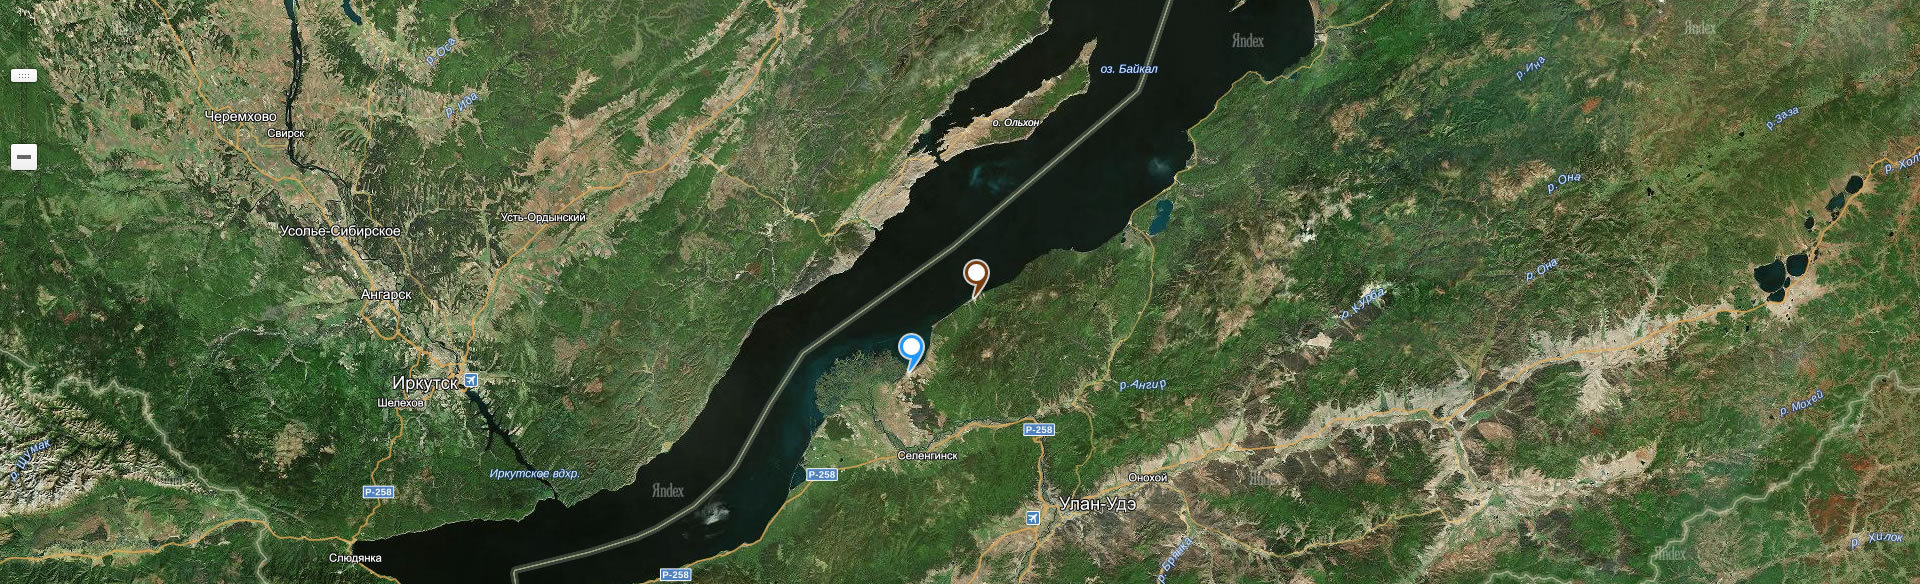
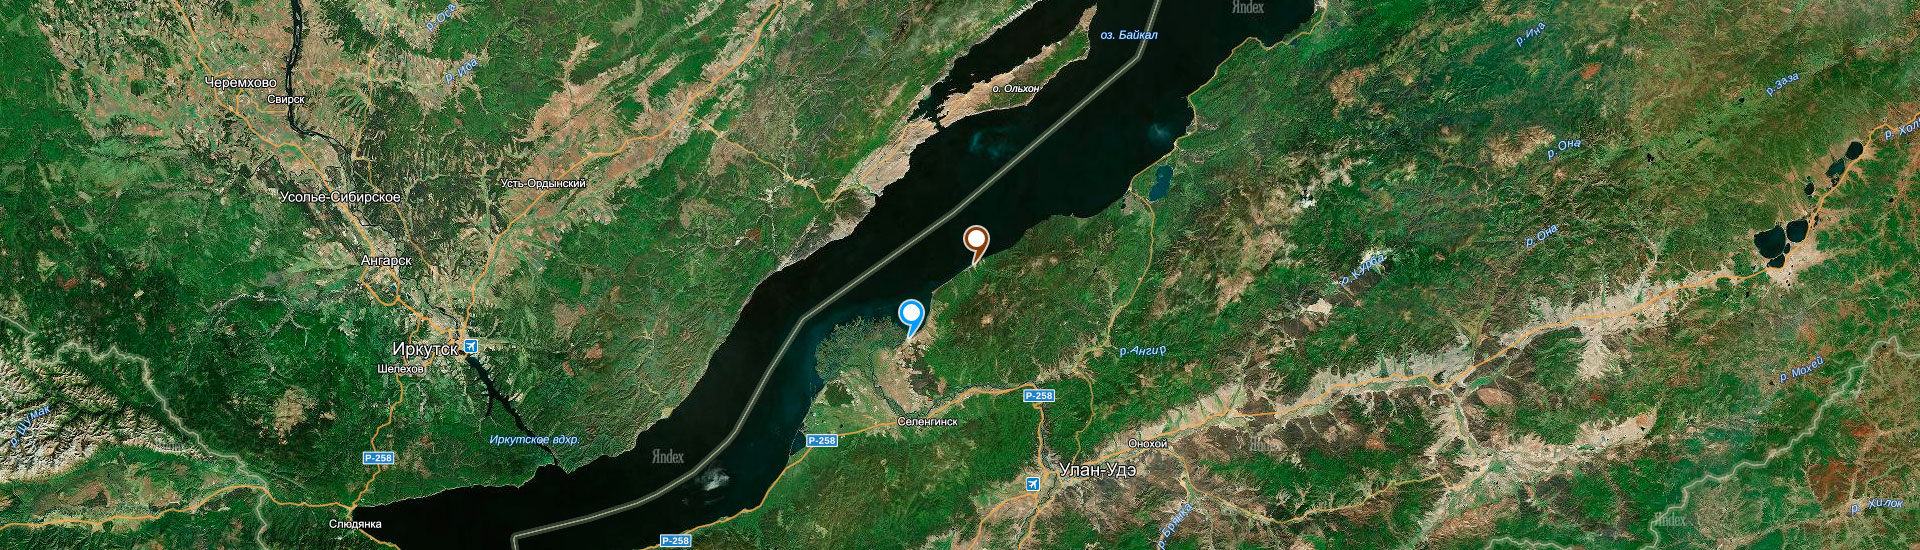
ыва

diff --git a/css/style.css b/css/style.css
@@ -414,18 +414,12 @@ background: -webkit-linear-gradient(top, rgba(255,206,33,1) 0%,rgba(254,177,0,1)
 background: linear-gradient(to bottom, rgba(255,206,33,1) 0%,rgba(254,177,0,1) 100%); /* W3C, IE10+, FF16+, Chrome26+, Opera12+, Safari7+ */
 filter: progid:DXImageTransform.Microsoft.gradient( startColorstr='#ffce21', endColorstr='#feb100',GradientType=0 ); /* IE6-9 */}
 
-#gp-animation {background-color: #53206C;}
-#gp-animation dl dt {display: inline-block; zoom: 1; *display: inline; vertical-align: top; margin-left: 70px;}
-#gp-animation dl dt a {display: block; padding: 12px 0; color: #fff; text-decoration: none;}
-#gp-animation dl dt a:hover {color: #FFBF00;}
-#gp-animation dl dt a.active {color: #FFBF00;}
-
 .b-select {height: 390px; position: static; margin: 0; overflow: hidden;}
 .b-select .wrapper {height: 388px;}
 .b-select img {margin-bottom: 20px;}
 .b-select h1 {font-size: 30px; text-shadow:0px 2px 3px rgba(0,0,0,0.65); width: 680px; margin: 0 auto 20px auto;}
 
-.bg-ametist {background: url(/img/bg-main.jpg) no-repeat center center; height: 610px; padding-top: 190px;}
+.gp-bg-ametist {background: url(/img/bg-main.jpg) no-repeat center center; height: 610px; padding-top: 190px;}
 
 .bg-noise {background: url(/gp-img/noise.jpg);}
 .pt80 {padding-top: 80px;}
@@ -443,6 +437,7 @@ filter: progid:DXImageTransform.Microsoft.gradient( startColorstr='#ffce21', end
 #footer .fl-l {font-size: 18px; margin-top: 24px;}
 #footer .fl-r {font-size: 14px; margin-top: 20px;}
 #footer .fl-r img {vertical-align: middle; margin-left: 20px;}
+#footer a:hover {text-decoration: underline;}
 
 
 .popup1.inner {width: 400px; height: 450px; margin-left: -200px; margin-top: -225px;}
@@ -451,13 +446,13 @@ filter: progid:DXImageTransform.Microsoft.gradient( startColorstr='#ffce21', end
 .popup1.inner .mb10 {margin-bottom: 30px;}
 .popup1.inner .p20 {padding-top: 40px; padding-left: 30px;}
 
-.gp-map {height: 584px; background: url(/gp-img/map.jpg) no-repeat center center;}
+.gp-map {height: 550px; background: url(/gp-img/map.jpg) no-repeat center center;}
 .gp-map .tooltip {position: absolute; width: 300px; height: 118px; background: #fff; border-radius: 5px;}
 .gp-map .tooltip p {color: #505050; font-size: 14px;}
 .gp-map .tooltip .title {font-size: 19px; margin-bottom: 5px; padding-left: 25px; background: url(/gp-img/location-icon.png) no-repeat left center;}
 .gp-map .tooltip .wrapper {padding: 10px 20px;}
-.gp-map .tooltip.left {top: 330px; left: 120px;}
-.gp-map .tooltip.right {top: 250px; right: 150px;}
+.gp-map .tooltip.left {top: 285px; left: 120px;}
+.gp-map .tooltip.right {top: 205px; right: 150px;}
 .gp-map .tooltip.left .conus {position: absolute; top: 20px; right: 0px;}
 .gp-map .tooltip.right .conus {position: absolute; top: 20px; left: 0px;}
 .gp-map .tooltip .conus .triangle {background: #fff; position: relative; position: relative;}

diff --git a/index.html b/index.html
@@ -32,7 +32,7 @@
 				</div>
 			</div>
 			<div id="content">
-				<div class="bg-ametist">
+				<div class="gp-bg-ametist">
 					<div class="centered">
 						<div class="b-select">
 							<div class="wrapper">
@@ -103,7 +103,7 @@
 			<div id="footer">
 				<div class="centered oh">
 					<div class="fl-l">Гостевой дом «Аметист»</div>
-					<div class="fl-r"><a href="">Разработка сайта</a> «GarantPark» <img src="/gp-img/gp.png" alt=""></div>
+					<div class="fl-r"><a href="http://garantpark.com/">Разработка сайта</a> «GarantPark» <img src="/gp-img/gp.png" alt=""></div>
 				</div>
 			</div>
 		</div>
